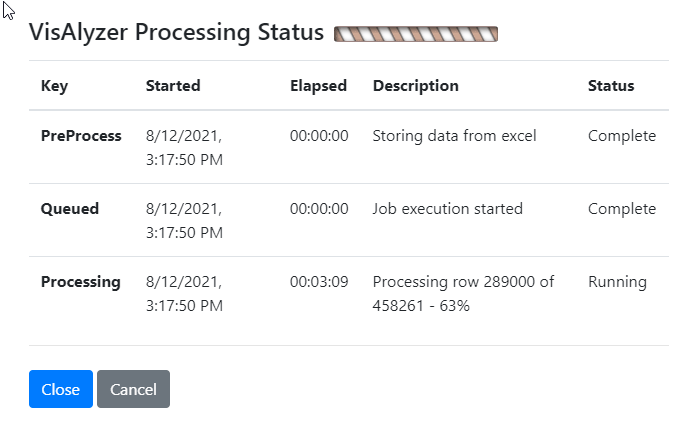
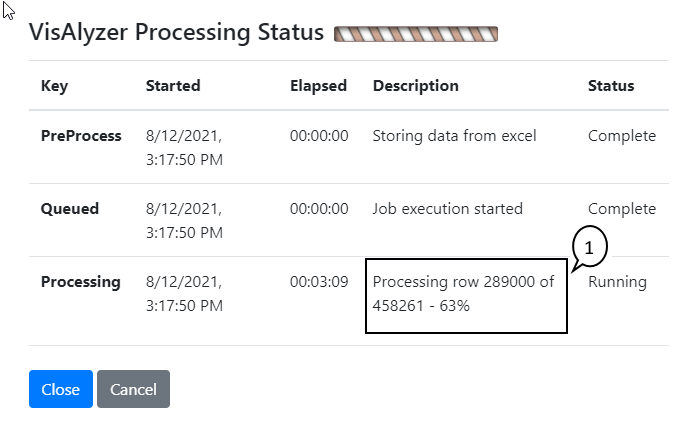
dashboard complete

Changed region(s): [[0.5423, 0.5188, 0.8737, 0.6408], [0.5122, 0.7629, 0.8135, 0.7934]]

diff --git a/docs.visalyzer.com/components.html b/docs.visalyzer.com/components.html
@@ -201,8 +201,8 @@
                                                     <li>Process Google Sheet - press this button to create a new VisAlyze project from the Google Sheet</li>
                                                 </ol>
                                                 <div class="screenshot-holder">
-                                                    <a href="assets/images/dashboard/IncTrak_VisAlyzer_google_sheet.png" data-title="Google ID & Sheet" data-toggle="lightbox"><img class="img-responsive" src="assets/images/dashboard/IncTrak_VisAlyzer_google_sheet.png" alt="screenshot" /></a>
-                                                    <a class="mask" href="assets/images/dashboard/IncTrak_VisAlyzer_google_sheet.png" data-title="Google ID & Sheet" data-toggle="lightbox"><i class="icon fa fa-search-plus"></i></a>
+                                                    <a href="assets/images/dashboard/IncTrak_VisAlyzer_google_sheet.png" data-title="Google ID & Sheet Name" data-toggle="lightbox"><img class="img-responsive" src="assets/images/dashboard/IncTrak_VisAlyzer_google_sheet.png" alt="screenshot" /></a>
+                                                    <a class="mask" href="assets/images/dashboard/IncTrak_VisAlyzer_google_sheet.png" data-title="Google ID & Sheet Name" data-toggle="lightbox"><i class="icon fa fa-search-plus"></i></a>
                                                 </div>
                                                 <ol>
                                                     <li>Sheet ID - this is the Google Sheet ID</li>
@@ -213,202 +213,54 @@
                                     </div><!--//row-->
                                 </div><!--//section-block-->
 
-                                <div id="vestingschedule" class="section-block">
-                                    <h3 class="block-title">Vesting Schedules</h3>
-                                    <p>The Vesting Schedules section allows you create, edit and delete the vesting schedules that will define over what period of time share are vested.</p>
+                                <div id="load-progress" class="section-block">
+                                    <h3 class="block-title">Load Progress</h3>
+                                    <p>Shows the status of loading and analyzing your matrix data.</p>
                                     <div class="row">
                                         <div class="col-md-6 col-sm-6 col-xs-12">
-                                            <h6>Vesting Schedule List</h6>
+                                            <h6>Progress stages</h6>
                                             <div class="screenshot-holder">
-                                                <a href="assets/images/company/05_company_vschedule_list.png" data-title="Vesting Schedule List" data-toggle="lightbox"><img class="img-responsive" src="assets/images/company/05_company_vschedule_list.png" alt="screenshot" /></a>
-                                                <a class="mask" href="assets/images/company/05_company_vschedule_list.png" data-title="Vesting Schedule List" data-toggle="lightbox"><i class="icon fa fa-search-plus"></i></a>
-                                            </div>
-                                            <p>The vesting schedule list shows you all existing vesting schedule. You can create new vesting schedules by selecting the "Create New Schedule>" link and see detail or edit existing vesting schedules by selecting the related link.</p>
-                                        </div>
-                                    </div><!--//row-->
-                                    <div class="row">
-                                        <div class="col-md-6 col-sm-6 col-xs-12">
-                                            <h6>Create Vesting Schedule</h6>
-                                            <div class="screenshot-holder">
-                                                <a href="assets/images/company/06_vesting_schedule2.png" data-title="Create Vesting Schedule" data-toggle="lightbox"><img class="img-responsive" src="assets/images/company/06_vesting_schedule1.png" alt="screenshot" /></a>
-                                                <a class="mask" href="assets/images/company/06_vesting_schedule2.png" data-title="Create Vesting Schedule" data-toggle="lightbox"><i class="icon fa fa-search-plus"></i></a>
-                                            </div>
-                                            <p>Set the Vesting Schedule name and define the vesting periods.</p>
-                                            <ul>
-                                                <li>The period amount defines the number of period durations for this period</li>
-                                                <li>The period duration defines the length of time this period is for in combination with the period amount</li>
-                                                <li>The amount type defines how the amount of is calculated - either a percentage or a fixed amount of shares.</li>
-                                                <li>The amount defines either the percentage or share amount to vest in this period.</li>
-                                                <li>The number of periods defined the count of periods over which this vesting calculation is defined.</li>
-                                                <li>On the last period you can choose to let the system calculate either the amount or periods to satisfy the grant.</li>
-                                            </ul>
-                                        </div>
-                                        <div class="col-md-6 col-sm-6 col-xs-12">
-                                            <div class="screenshot-holder">
-                                                <a href="assets/images/company/06_vesting_schedule1.png" data-title="Create Vesting Schedule" data-toggle="lightbox"><img class="img-responsive" src="assets/images/company/06_vesting_schedule1.png" alt="screenshot" /></a>
-                                                <a class="mask" href="assets/images/company/06_vesting_schedule1.png" data-title="Create Vesting Schedule" data-toggle="lightbox"><i class="icon fa fa-search-plus"></i></a>
-                                            </div>
-                                            <ul>
-                                                <li>Period duration can be over days, weeks, months or years</li>
-                                                <li>Amount type can be percentage or shares</li>
-                                                <li>
-                                                    In the example above each period reads as
-                                                    <ol>
-                                                        <li>Every 6 months vest 12 percent of the options granted. Do this every 6 months 2 times</li>
-                                                        <li>Every 4 months vest 8 percent of the options granted. Do this every 4 months 3 times</li>
-                                                        <li>Every 2 months vest 4 percent of the options granted. Do this every 2 months 6 times</li>
-                                                        <li>Every month vest <em>N</em> percent of the options granted. Do this every month and calculate how many <em>N</em> times until all shares in grant are vested.</li>
-                                                        <li>See below in the optionee section show this vesting schedule gets calculated for every vesting increment.</li>
-                                                    </ol>
-                                                </li>
-                                            </ul>
-                                        </div>
-                                    </div><!--//row-->
-                                </div><!--//section-block-->
-
-                                <div id="terminationdates" class="section-block">
-                                    <h3 class="block-title">Termination Dates</h3>
-                                    <p>The Termination Dates section allows you create, edit and delete the Termination Date definitions that will define what a grant is terminated.</p>
-                                    <div class="row">
-                                        <div class="col-md-6 col-sm-6 col-xs-12">
-                                            <h6>Termination Date List</h6>
-                                            <div class="screenshot-holder">
-                                                <a href="assets/images/company/07_term_list.png" data-title="Termination Date List" data-toggle="lightbox"><img class="img-responsive" src="assets/images/company/07_term_list.png" alt="screenshot" /></a>
-                                                <a class="mask" href="assets/images/company/07_term_list.png" data-title="Termination Date List" data-toggle="lightbox"><i class="icon fa fa-search-plus"></i></a>
-                                            </div>
-                                            <p>The Termination date list shows you all existing termination date definitions. You can create new termination dates by selecting the "Create New Termination Date>" link and see detail or edit existing termination dates by selecting the related link.</p>
-                                        </div>
-                                    </div><!--//row-->
-                                    <div class="row">
-                                        <div class="col-md-6 col-sm-6 col-xs-12">
-                                            <h6>Absolute Date</h6>
-                                            <div class="screenshot-holder">
-                                                <a href="assets/images/company/08_term_absolute.png" data-title="Absolute Dates" data-toggle="lightbox"><img class="img-responsive" src="assets/images/company/08_term_absolute.png" alt="screenshot" /></a>
-                                                <a class="mask" href="assets/images/company/08_term_absolute.png" data-title="Absolute Dates" data-toggle="lightbox"><i class="icon fa fa-search-plus"></i></a>
-                                            </div>
-                                            <p>To define a termination date on a absolute date select the "Is Absolute Date" check-box and enter the appropriate date.</p>
-                                        </div>
-                                        <div class="col-md-6 col-sm-6 col-xs-12">
-                                            <h6>From Dates</h6>
-                                            <div class="screenshot-holder">
-                                                <a href="assets/images/company/09_term_from.png" data-title="From Dates" data-toggle="lightbox"><img class="img-responsive" src="assets/images/company/09_term_from.png" alt="screenshot" /></a>
-                                                <a class="mask" href="assets/images/company/09_term_from.png" data-title="From Dates" data-toggle="lightbox"><i class="icon fa fa-search-plus"></i></a>
-                                            </div>
-                                            <p>You can create a termination date in the future relative to the Grant Date, Vesting start date or a specific entered date.</p>
-                                        </div>
-                                    </div><!--//row-->
-                                    <div class="row">
-                                        <div class="col-md-6 col-sm-6 col-xs-12">
-                                            <h6>From Specific Date</h6>
-                                            <div class="screenshot-holder">
-                                                <a href="assets/images/company/10_term_specific_date.png" data-title="From Specific Date" data-toggle="lightbox"><img class="img-responsive" src="assets/images/company/10_term_specific_date.png" alt="screenshot" /></a>
-                                                <a class="mask" href="assets/images/company/10_term_specific_date.png" data-title="From Specific Date" data-toggle="lightbox"><i class="icon fa fa-search-plus"></i></a>
-                                            </div>
-                                            <p>For a specific date, enter the date and the years, months and days from the enter date for the grant to expire.</p>
-                                        </div>
-                                        <div class="col-md-6 col-sm-6 col-xs-12">
-                                            <h6>Save Termination Date</h6>
-                                            <div class="screenshot-holder">
-                                                <a href="assets/images/company/11_term_date.png" data-title="Save Termination Date" data-toggle="lightbox"><img class="img-responsive" src="assets/images/company/11_term_date.png" alt="screenshot" /></a>
-                                                <a class="mask" href="assets/images/company/11_term_date.png" data-title="Save Termination Date" data-toggle="lightbox"><i class="icon fa fa-search-plus"></i></a>
-                                            </div>
-                                            <p>For termination dates from grant date or vesting start date enter the years, months and days from then for the grant to expire</p>
-                                        </div>
-                                    </div><!--//row-->
-                                </div><!--//section-block-->
-
-                                <div id="participants" class="section-block">
-                                    <h3 class="block-title">Participants</h3>
-                                    <p>The Participants section allows you create, edit and delete Participants that will be granted options and their site access.</p>
-                                    <div class="row">
-                                        <div class="col-md-6 col-sm-6 col-xs-12">
-                                            <h6>Participant Search</h6>
-                                            <div class="screenshot-holder">
-                                                <a href="assets/images/company/12_participant_search.png" data-title="Participant Search" data-toggle="lightbox"><img class="img-responsive" src="assets/images/company/12_participant_search.png" alt="screenshot" /></a>
-                                                <a class="mask" href="assets/images/company/12_participant_search.png" data-title="Participant Search" data-toggle="lightbox"><i class="icon fa fa-search-plus"></i></a>
-                                            </div>
-                                            <p>The participant list lets you search for participants in the system or be able to create new participants by selecting the "Create New Participant>" link  and see detail or edit existing participants by selecting the related link..</p>
-                                            <ul>
-                                                <li>Any - will find matching participant names that match any of the words entered in the search bar</li>
-                                                <li>All - will find matching participant names that all of the words entered in the search bar</li>
-                                                <li>Exact - will find matching participant names that are an exact match of the words entered in the search bar</li>
-                                            </ul>
-                                        </div>
-                                    </div><!--//row-->
-                                    <div class="row">
-                                        <div class="col-md-6 col-sm-6 col-xs-12">
-                                            <h6>Save New Participant</h6>
-                                            <div class="screenshot-holder">
-                                                <a href="assets/images/company/13_participant_save_with_user_access.png" data-title="Save New Participant" data-toggle="lightbox"><img class="img-responsive" src="assets/images/company/13_participant_save_with_user_access.png" alt="screenshot" /></a>
-                                                <a class="mask" href="assets/images/company/13_participant_save_with_user_access.png" data-title="Save New Participant" data-toggle="lightbox"><i class="icon fa fa-search-plus"></i></a>
+                                                <a href="assets/images/dashboard/VisAlyzer_load_status_03.png" data-title="Full load progress" data-toggle="lightbox"><img class="img-responsive" src="assets/images/dashboard/VisAlyzer_load_status_03.png" alt="screenshot" /></a>
+                                                <a class="mask" href="assets/images/dashboard/VisAlyzer_load_status_03.png" data-title="Full load progress" data-toggle="lightbox"><i class="icon fa fa-search-plus"></i></a>
                                             </div>
                                             <p>
-                                                Set the participants name and site access information. Username and email address will be used to send a activation email and grant access to the site.
-                                                If selecting integrated access with a Google account just the email address is required and a activation email is optional
+                                                <ol>
+                                                    <li>Key - the named stage in the load process</li>
+                                                    <li>Started - the date and time the load process started</li>
+                                                    <li>Elapsed - the current updated elapsed time for this stage</li>
+                                                    <li>Description - what is currently happening during this stage</li>
+                                                    <li>Status - the status of this stage in processing - Started, Running, Complete, Failed</li>
+                                                    <li>PreProcess - this stage is uploading or retreiving the matrix data from the source system</li>
+                                                    <li>Queued - this stage shows that the item is currently queued and pending execution</li>
+                                                    <li>Processing - this stage shows the raw read of the matrix data</li>
+                                                    <li>Analysis - this stage shows the status of the analysis of the data</li>
+                                                    <li>Saving - this stage shows the progress on saving a optimized VisAlyze project</li>
+                                                </ol>
                                             </p>
                                         </div>
                                         <div class="col-md-6 col-sm-6 col-xs-12">
-                                            <h6>Save Existing Participant</h6>
                                             <div class="screenshot-holder">
-                                                <a href="assets/images/company/14_participant_user_options.png" data-title="Save Existing Participants" data-toggle="lightbox"><img class="img-responsive" src="assets/images/company/14_participant_user_options.png" alt="screenshot" /></a>
-                                                <a class="mask" href="assets/images/company/14_participant_user_options.png" data-title="Save Existing Participant" data-toggle="lightbox"><i class="icon fa fa-search-plus"></i></a>
+                                                <a href="assets/images/dashboard/VisAlyzer_load_status_01.png" data-title="Loading rows..." data-toggle="lightbox"><img class="img-responsive" src="assets/images/dashboard/VisAlyzer_load_status_01.png" alt="screenshot" /></a>
+                                                <a class="mask" href="assets/images/dashboard/VisAlyzer_load_status_01.png" data-title="Loading rows..." data-toggle="lightbox"><i class="icon fa fa-search-plus"></i></a>
                                             </div>
-                                            <p>The options for participant site access</p>
-                                            <ul>
-                                                <li>Username - the user name that can be used to access this site</li>
-                                                <li>Email Address - the email address that can be used to active and set access to this site</li>
-                                                <li>Create New User - if user information is changed this option will create new access settings, but leave any old access settings</li>
-                                                <li>Update User - if user information is changed this option will overwrite existing access settings</li>
-                                                <li>Delete User - The user access related to this account will removed from the system</li>
-                                                <li>No User Action - Nothing will be changed.</li>
-                                            </ul>
+                                            <p>
+                                                <ol>
+                                                    <li>Processing - status update on loading the matrix by row and percentage complete.</li>
+                                                </ol>
+                                            </p>
+                                            <div class="screenshot-holder">
+                                                <a href="assets/images/dashboard/VisAlyzer_load_status_02.png" data-title="Analyzing matrix..." data-toggle="lightbox"><img class="img-responsive" src="assets/images/dashboard/VisAlyzer_load_status_02.png" alt="screenshot" /></a>
+                                                <a class="mask" href="assets/images/dashboard/VisAlyzer_load_status_02.png" data-title="Analyzing matrix..." data-toggle="lightbox"><i class="icon fa fa-search-plus"></i></a>
+                                            </div>
+                                            <p>
+                                                <ol>
+                                                    <li>Analyzing - status update on analysis of data for categorization, metrics and visualization.</li>
+                                                </ol>
+                                            </p>
                                         </div>
                                     </div><!--//row-->
                                 </div><!--//section-block-->
 
-                                <div id="grants" class="section-block">
-                                    <h3 class="block-title">Grants</h3>
-                                    <p>The Grants section allows you create, edit and delete Grants.</p>
-                                    <div class="row">
-                                        <div class="col-md-6 col-sm-6 col-xs-12">
-                                            <h6>Grant Search</h6>
-                                            <div class="screenshot-holder">
-                                                <a href="assets/images/company/15_grant_search.png" data-title="Grant Search" data-toggle="lightbox"><img class="img-responsive" src="assets/images/company/15_grant_search.png" alt="screenshot" /></a>
-                                                <a class="mask" href="assets/images/company/15_grant_search.png" data-title="Grant Search" data-toggle="lightbox"><i class="icon fa fa-search-plus"></i></a>
-                                            </div>
-                                            <p>The grant list lets you search for grants in the system by participant name or be able to create new grants by selecting the "Create New Grant>" link and see detail or edit existing grants by selecting the related link..</p>
-                                            <ul>
-                                                <li>Any - will find matching participants that have grants that match any of the words entered in the search bar</li>
-                                                <li>All - will find matching participants that have grants that all of the words entered in the search bar</li>
-                                                <li>Exact - will find matching participants that have grants that are an exact match of the words entered in the search bar</li>
-                                            </ul>
-                                        </div>
-                                        <div class="col-md-6 col-sm-6 col-xs-12">
-                                            <h6>Participant Search</h6>
-                                            <div class="screenshot-holder">
-                                                <a href="assets/images/company/16_grant_participant_search.png" data-title="Participant Search" data-toggle="lightbox"><img class="img-responsive" src="assets/images/company/16_grant_participant_search.png" alt="screenshot" /></a>
-                                                <a class="mask" href="assets/images/company/16_grant_participant_search.png" data-title="Participant Search" data-toggle="lightbox"><i class="icon fa fa-search-plus"></i></a>
-                                            </div>
-                                            <p>The participant field lets you search for participants in the system who you want to assign this grant</p>
-                                        </div>
-                                    </div><!--//row-->
-                                    <div class="row">
-                                        <div class="col-md-6 col-sm-6 col-xs-12">
-                                            <h6>Create Grant</h6>
-                                            <div class="screenshot-holder">
-                                                <a href="assets/images/company/17_grant_selections.png" data-title="Create Grant" data-toggle="lightbox"><img class="img-responsive" src="assets/images/company/17_grant_selections.png" alt="screenshot" /></a>
-                                                <a class="mask" href="assets/images/company/17_grant_selections.png" data-title="Create Grant" data-toggle="lightbox"><i class="icon fa fa-search-plus"></i></a>
-                                            </div>
-                                            <p>Once a participant is selected, choose the plan, vesting schedule, grant date, vesting start date, share price, shares granted and termination date this for this grant.</p>
-                                        </div>
-                                        <div class="col-md-6 col-sm-6 col-xs-12">
-                                            <div class="screenshot-holder">
-                                                <a href="assets/images/company/18_grant_creation.png" data-title="Create Grant" data-toggle="lightbox"><img class="img-responsive" src="assets/images/company/18_grant_creation.png" alt="screenshot" /></a>
-                                                <a class="mask" href="assets/images/company/18_grant_creation.png" data-title="Create Grant" data-toggle="lightbox"><i class="icon fa fa-search-plus"></i></a>
-                                            </div>
-                                        </div>
-                                    </div><!--//row-->
-                                </div><!--//section-block-->
                             </section><!--//doc-section-->
 
 
@@ -538,10 +390,7 @@
                                         <li><a class="scrollto" href="#saved-projects">Saved Projects</a></li>
                                         <li><a class="scrollto" href="#project_options">Project Options</a></li>
                                         <li><a class="scrollto" href="#load-source">Load Source</a></li>
-                                        <li><a class="scrollto" href="#vestingschedule">Vesting Schedules</a></li>
-                                        <li><a class="scrollto" href="#terminationdates">Termination Dates</a></li>
-                                        <li><a class="scrollto" href="#participants">Participants</a></li>
-                                        <li><a class="scrollto" href="#grants">Grants</a></li>
+                                        <li><a class="scrollto" href="#load-progress">Load Progresss</a></li>
                                     </ul><!--//nav-->
                                 </li>
                                 <li>
